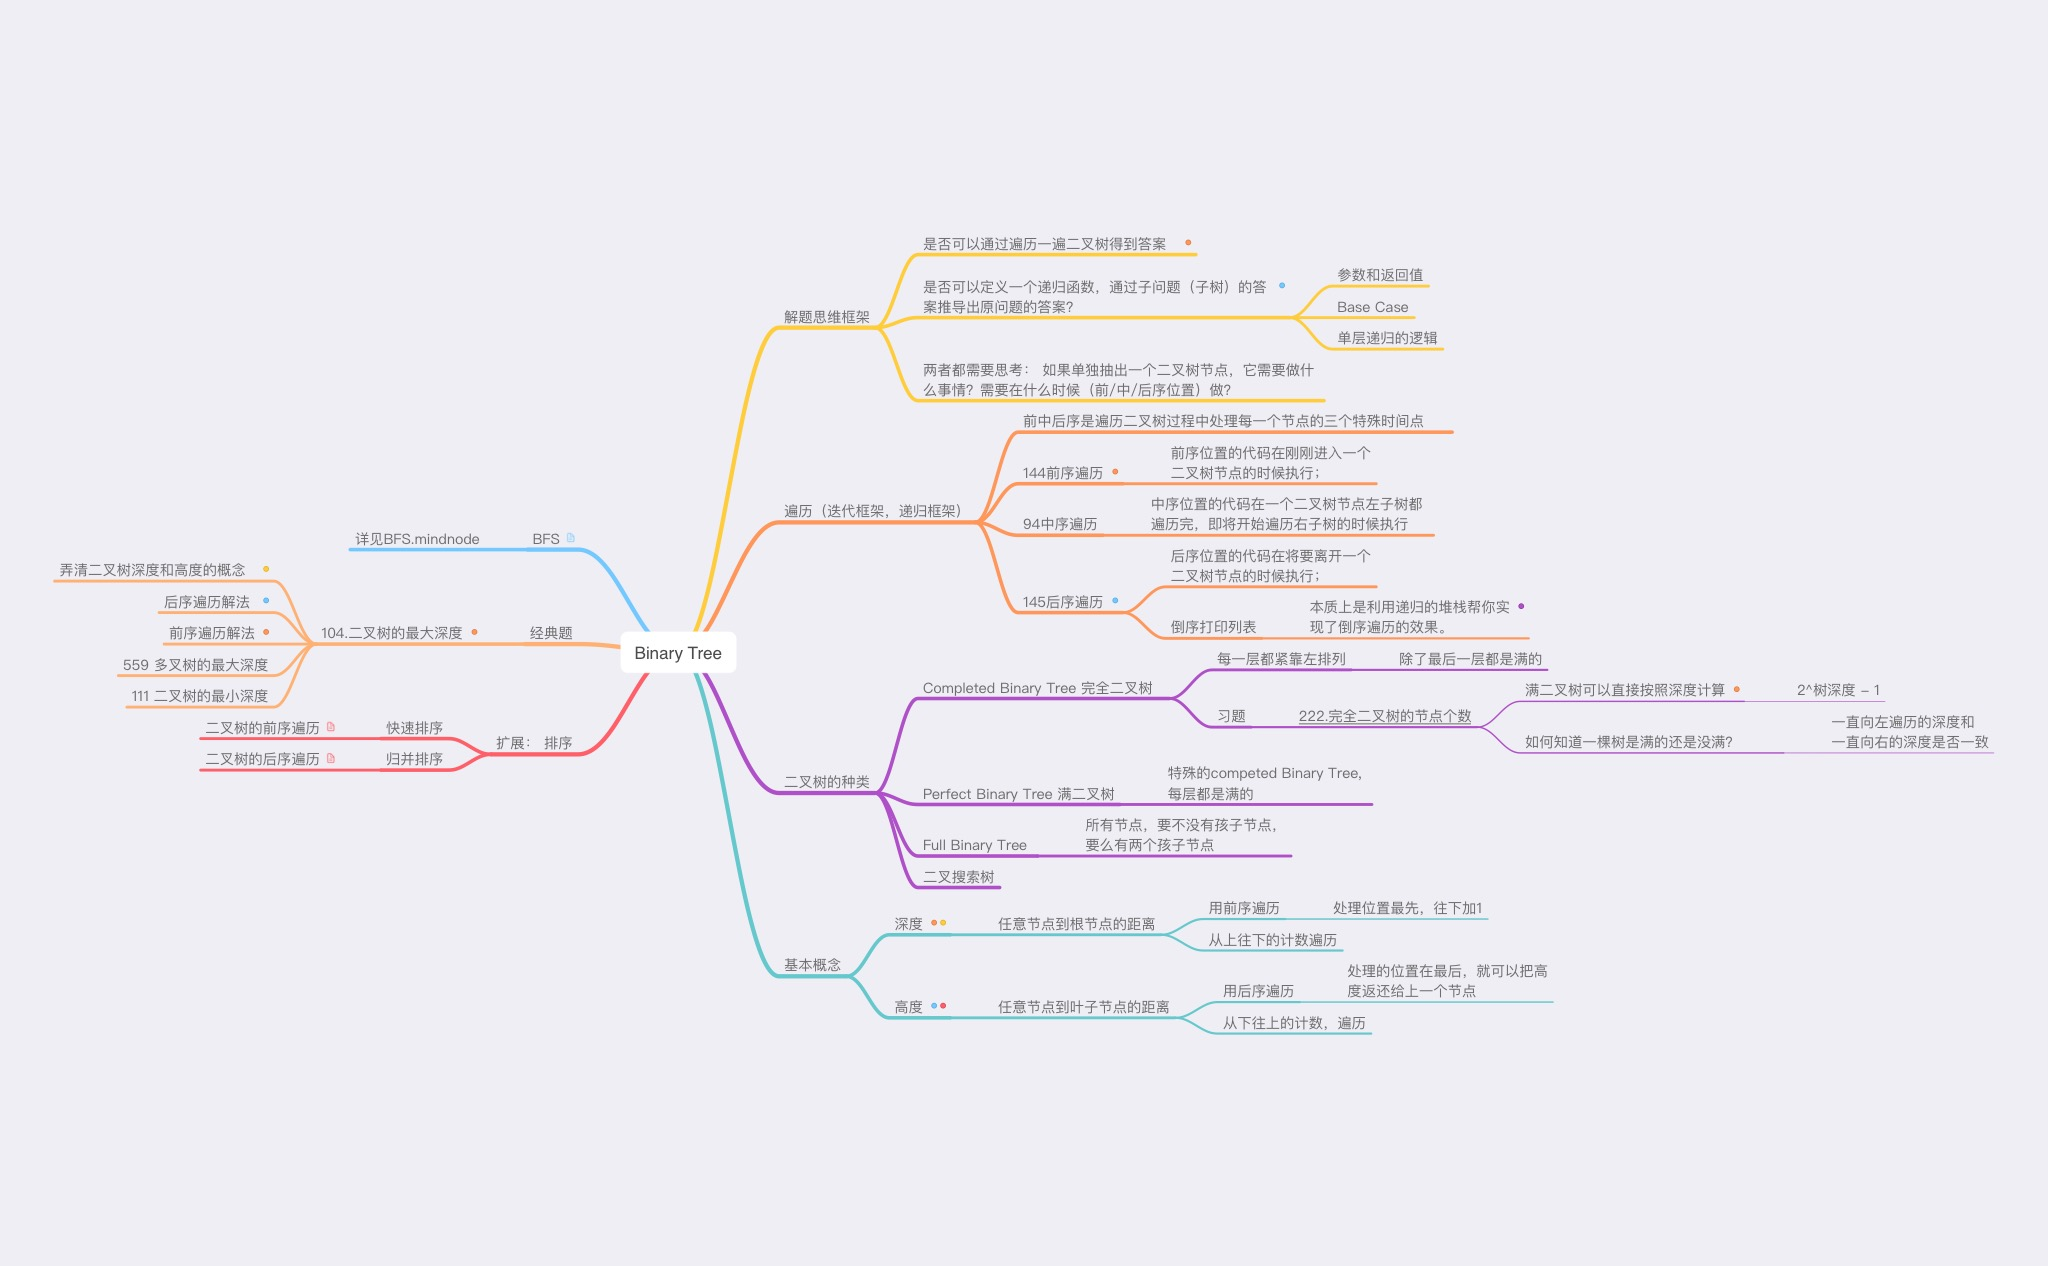
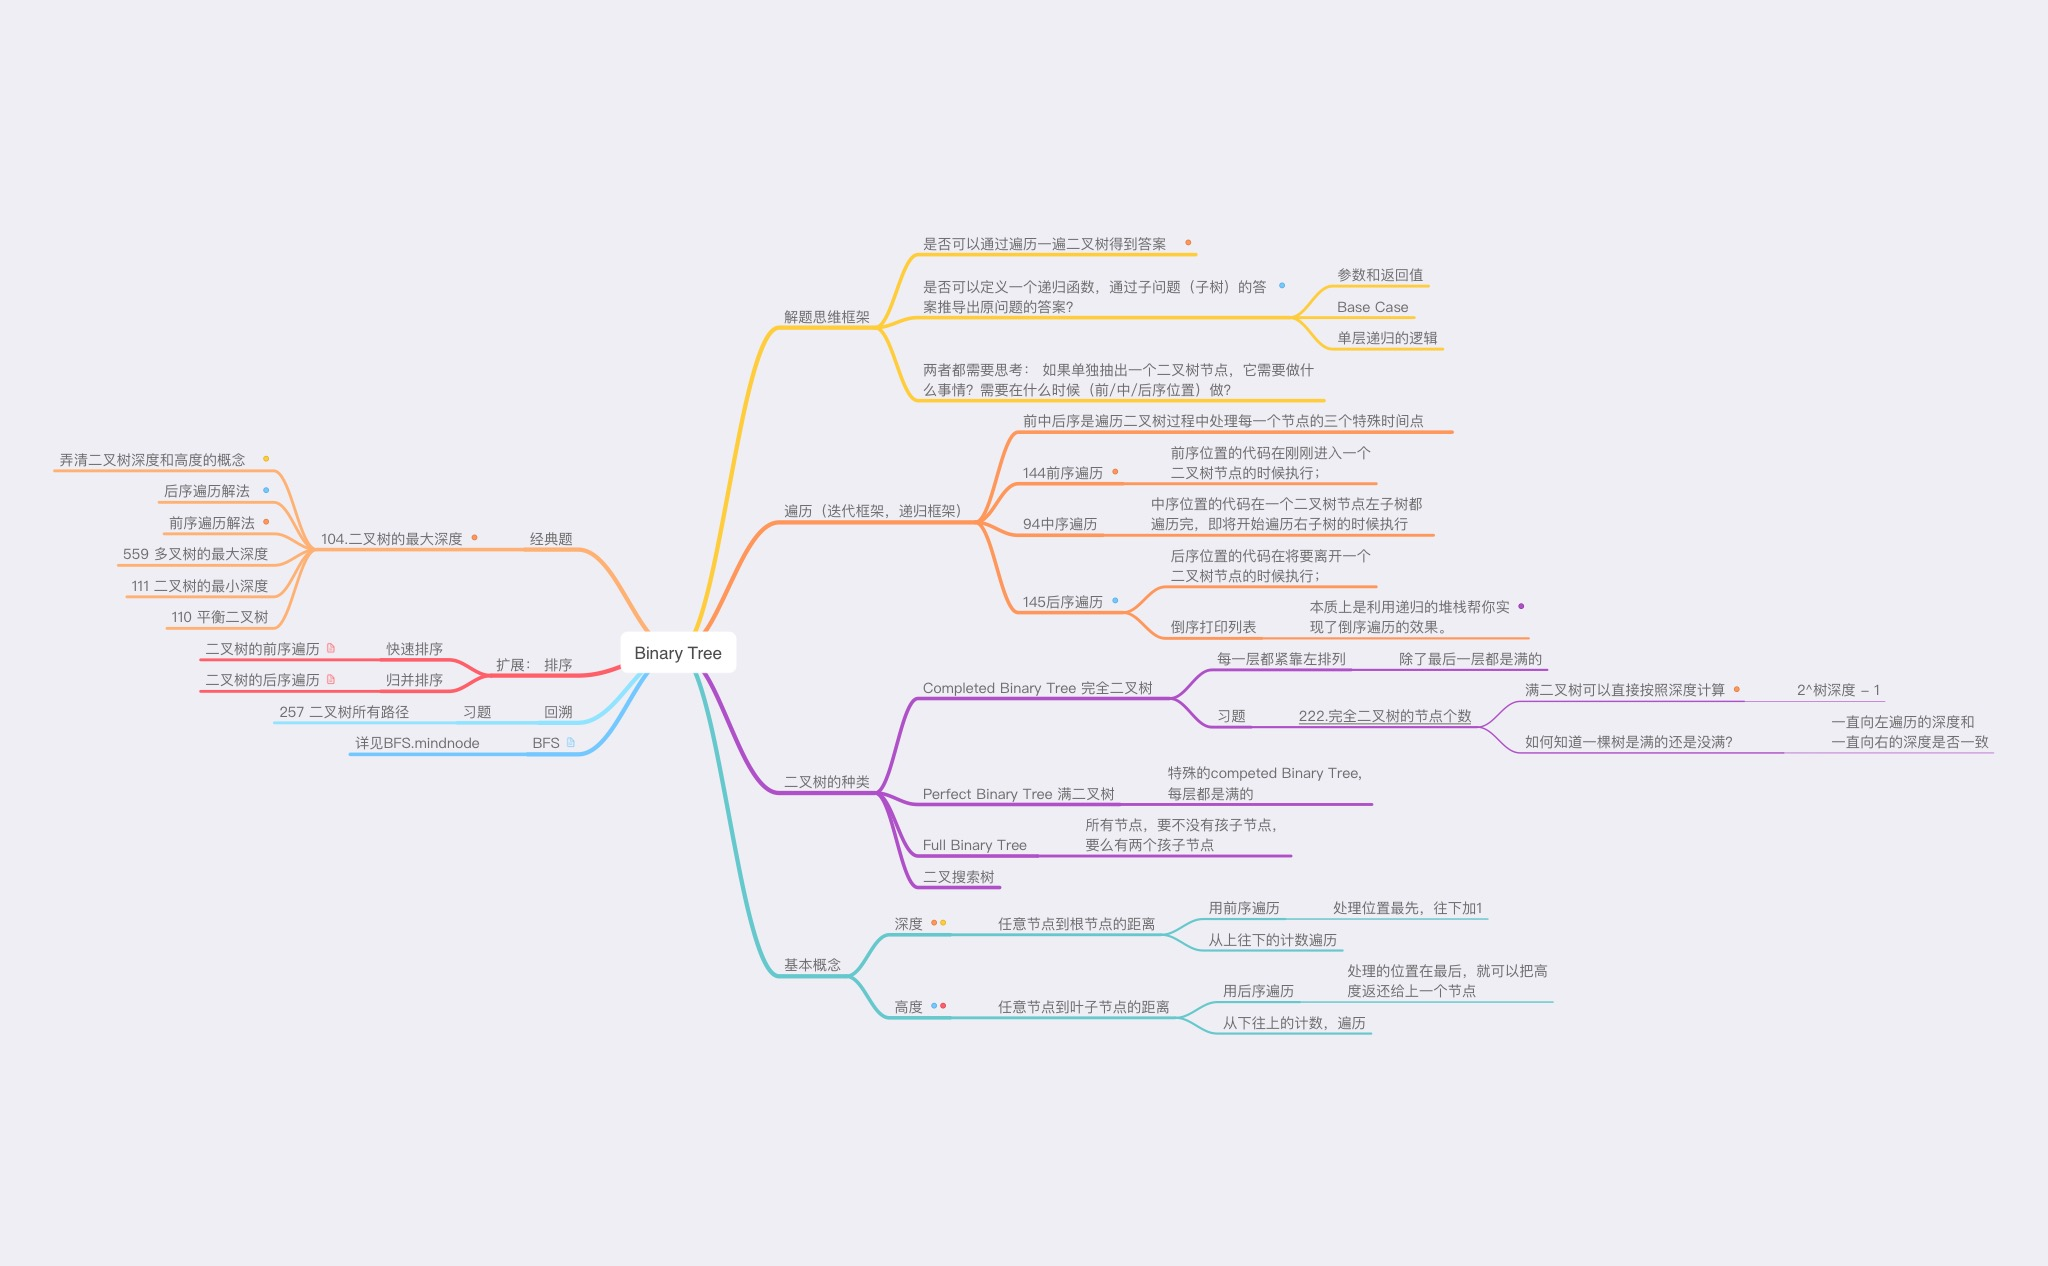
binary tree day3

Changed region(s): [[0.0312, 0.3389, 0.3125, 0.6161]]

diff --git a/Questions/Binary Tree/[257] Binary Tree Paths.md b/Questions/Binary Tree/[257] Binary Tree Paths.md
@@ -1,0 +1,71 @@
+## Tag
+PreOrder, BackTracking
+## 审题（关键词） 
+BInary Tree, Paths， 求所有路径
+## 初始思路  
+是递归思路，拆解问题， 本层的所有路径是下两个节点的所有路径加上本节点
+什么时候处理？使用前序遍历，因为要让父节点指向子节点。
+为什么要回溯？因为需要遍历所有的路径，在本路径访问完毕之后，需要回退到上某一步去试另一条支线。
+
+## 考点  
+PreOrder, BackTracking
+
+## 解法  
+```java
+class Solution {
+    List<List<Integer>> paths = new ArrayList<>();
+    public List<String> binaryTreePaths(TreeNode root) {
+        // 遍历框架：前序遍历
+        // 参数和定义：
+        // 参数：root， List<Integer> 记录本路径所有节点
+        // 定义，加入本节点，再往下遍历之后的子节点
+        traverse(root, new ArrayList<Integer>());
+        return transformer(paths);
+    }
+
+    private void traverse(TreeNode node, List<Integer> currPath) {
+        // bc:
+        if (node == null) {
+            return; 
+        }
+
+        // 处理： 加入本节点：
+        currPath.add(node.val);
+
+        // 如果是叶子节点，更新本路径：
+        if (node.left == null && node.right == null) {
+            paths.add(new ArrayList<>(currPath));
+        }
+        
+        // 访问
+        traverse(node.left, currPath);
+        traverse(node.right, currPath);
+
+        // BackTracking： remove last element
+        currPath.remove(currPath.size() - 1);
+    }
+
+    private List<String> transformer(List<List<Integer>> paths) {
+        
+        List<String> ans = new ArrayList<>();
+
+        for (int i = 0; i < paths.size(); i++) {
+            StringBuilder sb = new StringBuilder();
+
+            List<Integer> path = paths.get(i);
+            for (int j = 0; j < path.size(); j++) {
+                sb.append(path.get(j));
+                if (j != path.size() - 1) {
+                    sb.append("->");        
+                }
+            }
+
+            ans.add(sb.toString());
+        }
+
+        return ans;
+    }
+}
+```
+## 难点
+注意是在叶子节点才更新答案，而不是空的时候更新答案。

diff --git a/Questions/Binary Tree/[404] Sum of Left Leaves.md b/Questions/Binary Tree/[404] Sum of Left Leaves.md
@@ -1,0 +1,51 @@
+# [Sum of Left Leaves - LeetCode](https://leetcode.com/problems/sum-of-left-leaves/description/)
+## Tag
+BinaryTree, PostOrder
+## 审题（关键词） 
+Left Leaves, binary Tree
+
+## 初始思路  
+- 左叶子节点定义： 节点A的左孩子不为空，且左孩子的左右孩子都为空（说明是叶子节点），那么A节点的左孩子为左叶子节点
+- 如何判断这个节点是左叶子节点：
+	- 判断当前节点是不是左叶子是无法判断的，必须要通过节点的父节点来判断其左孩子是不是左叶子。
+	- 如果该节点的左节点不为空，该节点是叶子节点，则找到了一个左叶子
+	- 说的简单一点：这个叶子节点必须是父节点的左节点
+
+## 考点  
+左叶子节点，后序遍历。
+## 解法  
+```java
+class Solution {
+    // 需要弄清楚左叶子节点的定义
+    // 递归思路：拆解问题：本节点的左叶子节点之和是左子树的左叶子节点和 加 右子树的左叶子节点之和，求和
+    // 参数：节点本身，不需要其他参数
+    // 递归位置： 后序遍历
+    public int sumOfLeftLeaves(TreeNode root) {
+        // bc: 
+        if (root == null) {
+            return 0;
+        }
+
+        // 后序遍历        
+        // 访问：
+        int left = sumOfLeftLeaves(root.left);
+        int right = sumOfLeftLeaves(root.right);
+
+        // 处理：
+        // 下一个左节点是左叶子节点，处理本节点的左叶子节点之和。
+        int mid = 0;
+        if (root.left != null && root.left.left == null && root.left.right ==null) {
+            mid = root.left.val;
+        }
+
+        // 返回所有左叶子节点之和   
+        return mid + left + right;
+    }
+}
+```
+
+## 难点
+明白要在父节点 处判断左叶子节点。
+左叶子节点的两个条件：
+1. 父节点的左节点
+2. 叶子节点

diff --git a/Questions/Binary Tree/[110] Balanced Binary Tree.md b/Questions/Binary Tree/[110] Balanced Binary Tree.md
@@ -1,0 +1,43 @@
+# [Balanced Binary Tree - LeetCode](https://leetcode.com/problems/balanced-binary-tree/description/)
+## 审题（关键词）
+binary tree, height-balanced
+
+## 初始思路  
+1. 什么是高度平衡：左右子树的高度差不超过1，且每一个节点都如此：天生就有递归性，
+2. 因为我们要求左右子树的高度，所以使用后序遍历的方法 详见114
+3. 二叉树的遍历，使用递归思路尝试，每一个节点返回高度，和判断它本身是否是height balanced
+4. 需不需要多余参数：不需要
+## 考点  
+二叉树的深度和高度，二叉树的遍历，递归的思路，拆解问题
+## 解法 
+```java
+class Solution {
+    public boolean isBalanced(TreeNode root) {
+        // 递归：子问题思维：左右子树都是平衡的，且左右子树的最大高度相差不超过1.
+        if (root== null) {
+            return true;
+        }
+        // 每个节点干的事：判断自己是否是平衡树
+        // 拆解问题：只需要知道左右子树的高度，就可以判断，不需自身高度
+        int left = getHeight(root.left);
+        int right = getHeight(root.right);
+        // 平衡树的满足条件：
+        if (Math.abs(left - right) <= 1 && isBalanced(root.left) && isBalanced(root.right)) {
+            return true;
+        } else {
+            return false;
+        }
+    }
+    // 第二个递归，解决求树的高度的问题（lt.104)
+    private int getHeight(TreeNode root) {
+        if (root == null) {
+            return 0;
+        }
+
+        int left = getHeight(root.left);
+        int right = getHeight(root.right);
+
+        return Math.max(left, right) + 1;
+    }
+}
+```

diff --git a/Questions/Binary Tree/BFS/BFS_Common_Question.md b/Questions/Binary Tree/BFS/BFS_Common_Question.md
@@ -379,3 +379,30 @@ class Solution {
     }
 }
 ```
+## [222 Count Complete Tree Nodes - LeetCode](https://leetcode.com/problems/count-complete-tree-nodes/description/)
+> 不用记录层数，直接数节点数量
+```java
+class Solution {
+    public int countNodes(TreeNode root) {
+        // use Queue
+        Queue<TreeNode> queue = new LinkedList<>();
+        if (root != null) {
+            queue.offer(root);
+        }
+        
+        int ans = 0;
+
+        while (!queue.isEmpty()) {
+            TreeNode curr = queue.poll();
+            // 处理：
+            ans++;
+            // 访问：
+            if (curr.left != null) queue.add(curr.left);
+            if (curr.right != null) queue.add(curr.right);
+        }
+
+        return ans;
+    }
+
+}
+```
